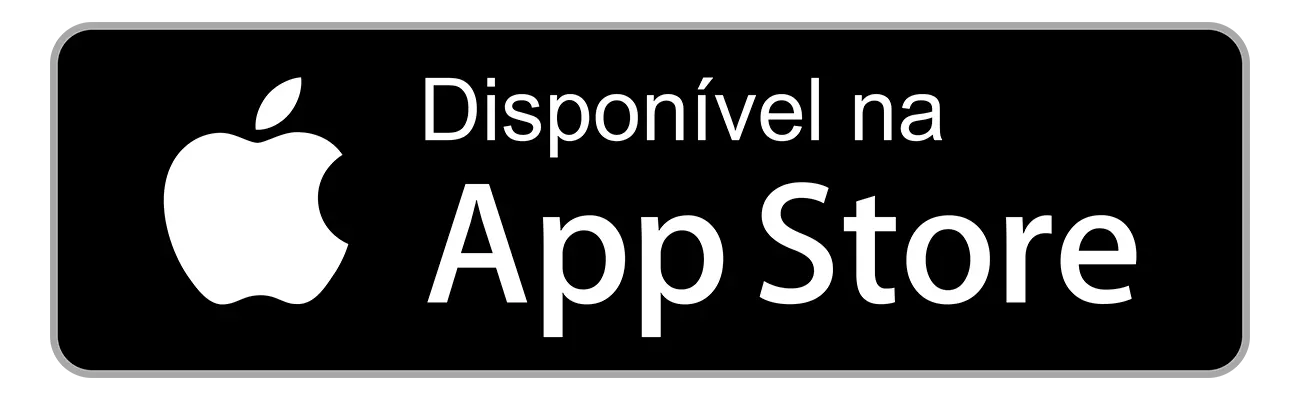
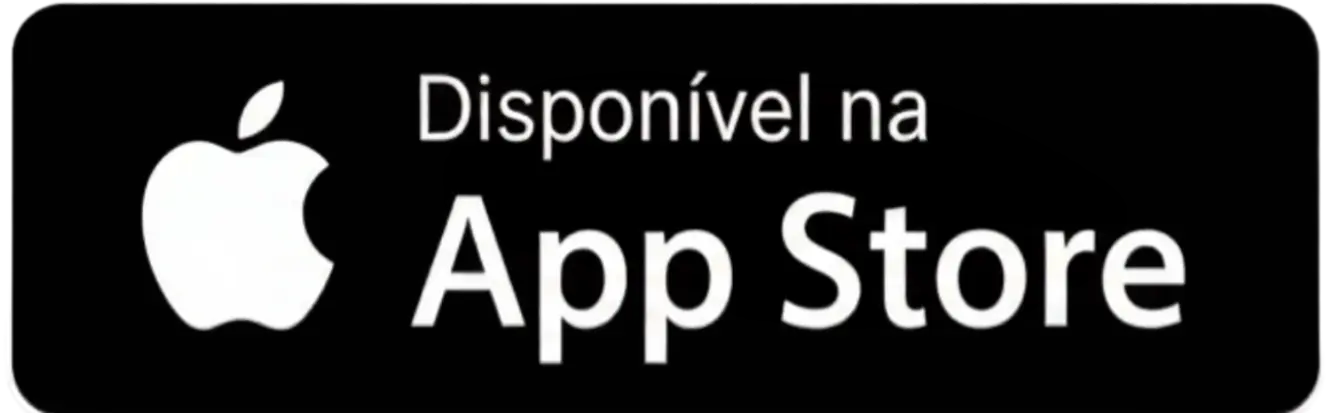
teste botao

diff --git a/src/components/modals/PurchaseSuccessModal.jsx b/src/components/modals/PurchaseSuccessModal.jsx
@@ -45,7 +45,7 @@ const PurchaseSuccessModal = ({ isOpen, onClose, paymentMethod, data }) => {
   const isDarkTheme = currentTheme === 'dark';
 
   // --- COMPONENTE DE BOTÕES DE DOWNLOAD SIMPLIFICADO ---
-  const DownloadButtons = () => (
+const DownloadButtons = () => (
     <div className={`mt-8 pt-6 border-t ${isDarkTheme ? 'border-gray-700' : 'border-gray-200'}`}>
       <p className={`text-center ${isDarkTheme ? 'text-gray-300' : 'text-gray-600'} mb-4`}>
         Seu acesso está liberado! Baixe nosso app e entre com o CPF utilizado na compra.
@@ -53,30 +53,30 @@ const PurchaseSuccessModal = ({ isOpen, onClose, paymentMethod, data }) => {
       <div className="flex flex-col sm:flex-row items-center justify-center gap-4">
         
         {/* =================================================================== */}
-        {/* ==> A CORREÇÃO FINALÍSSIMA (DE VERDADE) ESTÁ AQUI <== */}
+        {/* ==> CÓDIGO FINAL E MAIS SIMPLES <== */}
         {/* =================================================================== */}
         <a 
           href={appStoreUrl} 
           target="_blank" 
           rel="noopener noreferrer" 
-          className="transition-transform hover:scale-105"
+          className="transition-transform hover:scale-105" // Apenas efeito de hover
         >
           <img 
             src={appStoreBadge} 
             alt="Disponível na App Store" 
-            className="h-12" // ALTURA FIXA AQUI (48px). Ajuste se necessário.
+            // Nenhuma classe de tamanho necessária
           />
         </a>
         <a 
           href={playStoreUrl} 
           target="_blank" 
           rel="noopener noreferrer" 
-          className="transition-transform hover:scale-105"
+          className="transition-transform hover:scale-105" // Apenas efeito de hover
         >
           <img 
             src={googlePlayBadge} 
             alt="Disponível no Google Play" 
-            className="h-12" // MESMA ALTURA FIXA AQUI.
+            // Nenhuma classe de tamanho necessária
           />
         </a>
         {/* =================================================================== */}
@@ -84,7 +84,6 @@ const PurchaseSuccessModal = ({ isOpen, onClose, paymentMethod, data }) => {
       </div>
     </div>
   );
-
 
   // --- RENDER CONTENT (sem alterações na lógica) ---
   const renderContent = () => {
